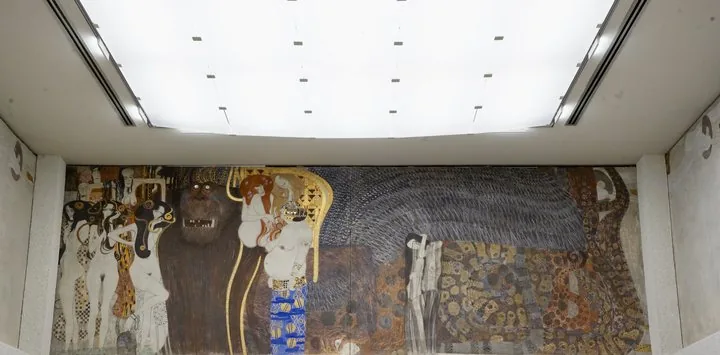
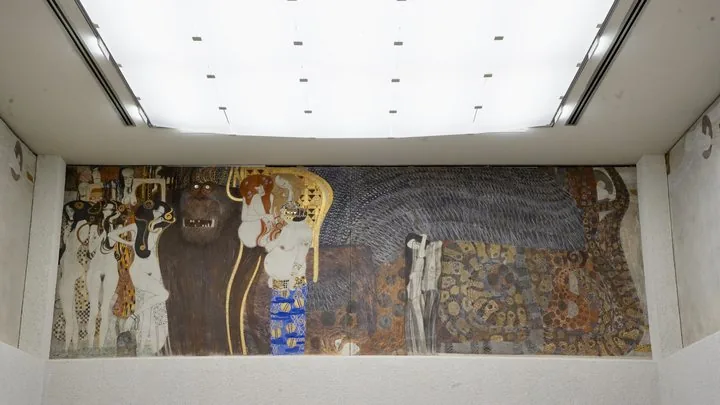
secession: revert cover to original (uncropped, default position)

diff --git a/journal/page/10/index.html b/journal/page/10/index.html
@@ -95,7 +95,7 @@
             <a class="jp" href="/stories/berlengas/" data-area="portugal"><figure><picture><source media="(max-width:700px)" type="image/webp" srcset="/assets/mobile-images/2cac7fc8c9c4775d.webp 720w" sizes="(max-width:700px) 50vw, (max-width:1100px) 33vw, 300px"><img src="/img/berlengas/cover.m.jpg" srcset="/img/berlengas/cover.s.jpg 720w, /img/berlengas/cover.m.jpg 1080w, /img/berlengas/cover.jpg 1464w" sizes="(max-width:700px) 50vw, (max-width:1100px) 33vw, 300px" alt="石橋接上主島，這座 17 世紀的海防堡壘到現在還守著礁岸。" width="1464" height="2600" loading="lazy" decoding="async"></picture></figure><span class="jc"><b>貝倫加斯群島</b>Peniche</span></a>
             <a class="jp" href="/stories/seiryuji/" data-area="japan"><figure><picture><source media="(max-width:700px)" type="image/webp" srcset="/assets/mobile-images/9b34bac4258c381e.webp 720w" sizes="(max-width:700px) 50vw, (max-width:1100px) 33vw, 300px"><img src="/img/seiryuji/03_card.m.jpg" srcset="/img/seiryuji/03_card.s.jpg 720w, /img/seiryuji/03_card.m.jpg 1080w, /img/seiryuji/03_card.jpg 1464w" sizes="(max-width:700px) 50vw, (max-width:1100px) 33vw, 300px" alt="五重塔一層一層的屋簷，都被雪壓得白白的。" width="1464" height="2600" loading="lazy" decoding="async"></picture></figure><span class="jc"><b>青龍寺昭和大佛</b>青森</span></a>
             <a class="jp" href="/stories/kunstsilo/" data-area="norway"><figure><picture><source media="(max-width:700px)" type="image/webp" srcset="/assets/mobile-images/2e27943163027b7c.webp 600w, /assets/mobile-images/e96b6afda17bd2c3.webp 720w" sizes="(max-width:700px) 50vw, (max-width:1100px) 33vw, 300px"><img src="/img/kunstsilo/history.m.jpg" srcset="/img/kunstsilo/history.s.jpg 600w, /img/kunstsilo/history.m.jpg 1080w, /img/kunstsilo/history.jpg 1600w" sizes="(max-width:700px) 50vw, (max-width:1100px) 33vw, 300px" alt="影像作品在原本的結構底下展出，工業遺產和新美術館一起看。" width="1600" height="2842" loading="lazy" decoding="async"></picture></figure><span class="jc"><b>Kunstsilo 美術館</b>Kristiansand</span></a>
-            <a class="jp" href="/stories/secession/" data-area="austria"><figure><picture><source media="(max-width:700px)" type="image/webp" srcset="/assets/mobile-images/d8914cc0948fae76.webp 720w" sizes="(max-width:700px) 50vw, (max-width:1100px) 33vw, 300px"><img src="/img/secession/cover.m.jpg" srcset="/img/secession/cover.s.jpg 720w, /img/secession/cover.m.jpg 1080w, /img/secession/cover.jpg 2600w" sizes="(max-width:700px) 50vw, (max-width:1100px) 33vw, 300px" alt="走進地下室，整面牆都是克林姆。" width="2600" height="1283" loading="lazy" decoding="async"></picture></figure><span class="jc"><b>維也納分離派會館</b>Vienna</span></a>
+            <a class="jp" href="/stories/secession/" data-area="austria"><figure><picture><source media="(max-width:700px)" type="image/webp" srcset="/assets/mobile-images/d8914cc0948fae76.webp 720w" sizes="(max-width:700px) 50vw, (max-width:1100px) 33vw, 300px"><img src="/img/secession/cover.m.jpg" srcset="/img/secession/cover.s.jpg 720w, /img/secession/cover.m.jpg 1080w, /img/secession/cover.jpg 2600w" sizes="(max-width:700px) 50vw, (max-width:1100px) 33vw, 300px" alt="走進地下室，整面牆都是克林姆。" width="2600" height="1464" loading="lazy" decoding="async"></picture></figure><span class="jc"><b>維也納分離派會館</b>Vienna</span></a>
             <a class="jp" href="/stories/geibikei/" data-area="japan"><figure><picture><source media="(max-width:700px)" type="image/webp" srcset="/assets/mobile-images/f0171c666047b79b.webp 720w" sizes="(max-width:700px) 50vw, (max-width:1100px) 33vw, 300px"><img src="/img/geibikei/content-06_card.m.jpg" srcset="/img/geibikei/content-06_card.s.jpg 720w, /img/geibikei/content-06_card.m.jpg 1080w, /img/geibikei/content-06_card.jpg 1464w" sizes="(max-width:700px) 50vw, (max-width:1100px) 33vw, 300px" alt="船夫用長篙撐船，是猊鼻溪一直傳下來的方式。" width="1464" height="2600" loading="lazy" decoding="async"></picture></figure><span class="jc"><b>猊鼻溪</b>岩手</span></a>
             <a class="jp" href="/stories/etna/" data-area="italy"><figure><picture><source media="(max-width:700px)" type="image/webp" srcset="/assets/mobile-images/dcb9fb9dbde3b9ca.webp 720w" sizes="(max-width:700px) 50vw, (max-width:1100px) 33vw, 300px"><img src="/img/etna/bw.m.jpg" srcset="/img/etna/bw.s.jpg 720w, /img/etna/bw.m.jpg 1080w, /img/etna/bw.jpg 1464w" sizes="(max-width:700px) 50vw, (max-width:1100px) 33vw, 300px" alt="黑色熔岩蓋上白雪，冬天健行看得特別清楚。" width="1464" height="2600" loading="lazy" decoding="async"></picture></figure><span class="jc"><b>埃特納火山</b>Sicilia</span></a>
             <a class="jp" href="/stories/hengchun/" data-area="taiwan"><figure><picture><source media="(max-width:700px)" type="image/webp" srcset="/assets/mobile-images/7ebc761e6f44b683.webp 720w" sizes="(max-width:700px) 50vw, (max-width:1100px) 33vw, 300px"><img src="/img/hengchun/cover.m.jpg" srcset="/img/hengchun/cover.s.jpg 720w, /img/hengchun/cover.m.jpg 1080w, /img/hengchun/cover.jpg 1464w" sizes="(max-width:700px) 50vw, (max-width:1100px) 33vw, 300px" alt="欖仁溪的溪谷，是從滿州里德社區出發，跟著在地導覽員走進山裡的路線。" width="1464" height="2600" loading="lazy" decoding="async"></picture></figure><span class="jc"><b>恆春欖仁溪</b>屏東</span></a>

diff --git a/journal/austria/index.html b/journal/austria/index.html
@@ -98,7 +98,7 @@
             <a class="jp" href="/stories/salzburg/" data-area="austria"><figure><picture><source media="(max-width:700px)" type="image/webp" srcset="/assets/mobile-images/6b7f14d86ef42654.webp 720w" sizes="(max-width:700px) 50vw, (max-width:1100px) 33vw, 300px"><img src="/img/salzburg/rail.m.jpg" srcset="/img/salzburg/rail.s.jpg 720w, /img/salzburg/rail.m.jpg 1080w, /img/salzburg/rail.jpg 1464w" sizes="(max-width:700px) 50vw, (max-width:1100px) 33vw, 300px" alt="沿著白牆往山上爬的軌道，上山比想像中輕鬆。" width="1464" height="2600" loading="lazy" decoding="async"></picture></figure><span class="jc"><b>薩爾茲堡</b>Salzburg</span></a>
             <a class="jp" href="/stories/hallstatt/" data-area="austria"><figure><picture><source media="(max-width:700px)" type="image/webp" srcset="/assets/mobile-images/6f1d9b52fce887c3.webp 720w" sizes="(max-width:700px) 50vw, (max-width:1100px) 33vw, 300px"><img src="/img/hallstatt/view.m.jpg" srcset="/img/hallstatt/view.s.jpg 720w, /img/hallstatt/view.m.jpg 1080w, /img/hallstatt/view.l.jpg 1600w, /img/hallstatt/view.jpg 2600w" sizes="(max-width:700px) 50vw, (max-width:1100px) 33vw, 300px" alt="霧散了以後，灰藍色的湖和雪山，是冬天才有的安靜。" width="2600" height="1464" loading="lazy" decoding="async"></picture></figure><span class="jc"><b>哈修塔特</b>Hallstatt</span></a>
             <a class="jp" href="/stories/salzburg/" data-area="austria"><figure><picture><source media="(max-width:700px)" type="image/webp" srcset="/assets/mobile-images/1a38ec3efc2afc25.webp 720w" sizes="(max-width:700px) 50vw, (max-width:1100px) 33vw, 300px"><img src="/img/salzburg/window.m.jpg" srcset="/img/salzburg/window.s.jpg 720w, /img/salzburg/window.m.jpg 1080w, /img/salzburg/window.jpg 1464w" sizes="(max-width:700px) 50vw, (max-width:1100px) 33vw, 300px" alt="薩爾茲堡" width="1464" height="2600" loading="lazy" decoding="async"></picture></figure><span class="jc"><b>薩爾茲堡</b>Salzburg</span></a>
-            <a class="jp" href="/stories/secession/" data-area="austria"><figure><picture><source media="(max-width:700px)" type="image/webp" srcset="/assets/mobile-images/d8914cc0948fae76.webp 720w" sizes="(max-width:700px) 50vw, (max-width:1100px) 33vw, 300px"><img src="/img/secession/cover.m.jpg" srcset="/img/secession/cover.s.jpg 720w, /img/secession/cover.m.jpg 1080w, /img/secession/cover.jpg 2600w" sizes="(max-width:700px) 50vw, (max-width:1100px) 33vw, 300px" alt="走進地下室，整面牆都是克林姆。" width="2600" height="1283" loading="lazy" decoding="async"></picture></figure><span class="jc"><b>維也納分離派會館</b>Vienna</span></a>
+            <a class="jp" href="/stories/secession/" data-area="austria"><figure><picture><source media="(max-width:700px)" type="image/webp" srcset="/assets/mobile-images/d8914cc0948fae76.webp 720w" sizes="(max-width:700px) 50vw, (max-width:1100px) 33vw, 300px"><img src="/img/secession/cover.m.jpg" srcset="/img/secession/cover.s.jpg 720w, /img/secession/cover.m.jpg 1080w, /img/secession/cover.jpg 2600w" sizes="(max-width:700px) 50vw, (max-width:1100px) 33vw, 300px" alt="走進地下室，整面牆都是克林姆。" width="2600" height="1464" loading="lazy" decoding="async"></picture></figure><span class="jc"><b>維也納分離派會館</b>Vienna</span></a>
             <a class="jp" href="/stories/salzburg/" data-area="austria"><figure><picture><source media="(max-width:700px)" type="image/webp" srcset="/assets/mobile-images/471210c10a709375.webp 720w" sizes="(max-width:700px) 50vw, (max-width:1100px) 33vw, 300px"><img src="/img/salzburg/old-town.m.jpg" srcset="/img/salzburg/old-town.s.jpg 720w, /img/salzburg/old-town.m.jpg 1080w, /img/salzburg/old-town.jpg 1464w" sizes="(max-width:700px) 50vw, (max-width:1100px) 33vw, 300px" alt="薩爾茲堡" width="1464" height="2600" loading="lazy" decoding="async"></picture></figure><span class="jc"><b>薩爾茲堡</b>Salzburg</span></a>
             <a class="jp" href="/stories/vienna-christmas/" data-area="austria"><figure><picture><source media="(max-width:700px)" type="image/webp" srcset="/assets/mobile-images/e93dde100cd911f8.webp 720w" sizes="(max-width:700px) 50vw, (max-width:1100px) 33vw, 300px"><img src="/img/vienna-christmas/ornaments.m.jpg" srcset="/img/vienna-christmas/ornaments.s.jpg 720w, /img/vienna-christmas/ornaments.m.jpg 1080w, /img/vienna-christmas/ornaments.jpg 1950w" sizes="(max-width:700px) 50vw, (max-width:1100px) 33vw, 300px" alt="維也納聖誕市集" width="1950" height="2600" loading="lazy" decoding="async"></picture></figure><span class="jc"><b>維也納聖誕市集</b>Vienna</span></a>
             <a class="jp" href="/stories/salzburg/" data-area="austria"><figure><picture><source media="(max-width:700px)" type="image/webp" srcset="/assets/mobile-images/4aa560e4a7b8767f.webp 720w" sizes="(max-width:700px) 50vw, (max-width:1100px) 33vw, 300px"><img src="/img/salzburg/hall.m.jpg" srcset="/img/salzburg/hall.s.jpg 720w, /img/salzburg/hall.m.jpg 1080w, /img/salzburg/hall.jpg 1464w" sizes="(max-width:700px) 50vw, (max-width:1100px) 33vw, 300px" alt="薩爾茲堡" width="1464" height="2600" loading="lazy" decoding="async"></picture></figure><span class="jc"><b>薩爾茲堡</b>Salzburg</span></a>

diff --git a/stories/secession/index.html b/stories/secession/index.html
@@ -69,7 +69,7 @@
     <p class="drawer-foot"><a href="/about/">關於 Out and About</a><a href="https://www.instagram.com/nomowho/" rel="me noopener">Instagram @nomowho</a></p>
   </div>
 </div>
-<main id="main"><article><div class="cover"><picture><source media="(max-width:700px)" type="image/webp" srcset="/assets/mobile-images/d8914cc0948fae76.webp 720w" sizes="100vw"><img style="object-position:50% 100%;" src="/img/secession/cover.m.jpg" srcset="/img/secession/cover.m.jpg 1080w, /img/secession/cover.jpg 2600w" sizes="100vw" alt="走進地下室，整面牆都是克林姆。" width="2600" height="1283" fetchpriority="high" decoding="async"></picture></div><p class="covercap">走進地下室，整面牆都是克<span class="nw">林姆。</span></p><header class="ahead">
+<main id="main"><article><div class="cover"><picture><source media="(max-width:700px)" type="image/webp" srcset="/assets/mobile-images/d8914cc0948fae76.webp 720w" sizes="100vw"><img src="/img/secession/cover.m.jpg" srcset="/img/secession/cover.m.jpg 1080w, /img/secession/cover.jpg 2600w" sizes="100vw" alt="走進地下室，整面牆都是克林姆。" width="2600" height="1464" fetchpriority="high" decoding="async"></picture></div><p class="covercap">走進地下室，整面牆都是克<span class="nw">林姆。</span></p><header class="ahead">
       <nav class="crumb" aria-label="位置"><a href="/">TOP</a><i>›</i><a href="/category/art/">ART</a><i>›</i><a href="/destinations/austria/">奧地利</a></nav>
       <div class="meta"><a href="/category/art/">ART</a><span>· VIENNA</span><time datetime="2024-10-27">2024.10.27</time></div>
       <h1>維也納分離派會館怎麼看？金色高麗菜圓頂與克林姆《貝多芬飾帶》，戴上耳機聽快樂頌</h1>

diff --git a/src/articles/secession.js b/src/articles/secession.js
@@ -16,7 +16,6 @@ POST_DETAIL['secession'] = {
   cover:'img/secession/cover.jpg',
   cardH:'img/secession/cardh.jpg',
   cardV:true,   // /stories/ 用直式縮圖 img/secession.jpg（Nomo 指定直式縮圖 DSC02909）
-  coverPos:'50% 100%',   // 首圖已裁掉壁畫底邊（照片高度 87.6%）以下的牆面，取景貼齊最下方，底邊不被切也不露牆（Nomo 11-28）
   coverCap:"走進地下室，整面牆都是克林姆。",
   place:{
     alt:['Secession','Wiener Secession','Secessionsgebäude','Beethoven Frieze','維也納分離派會館','分離宮'],
